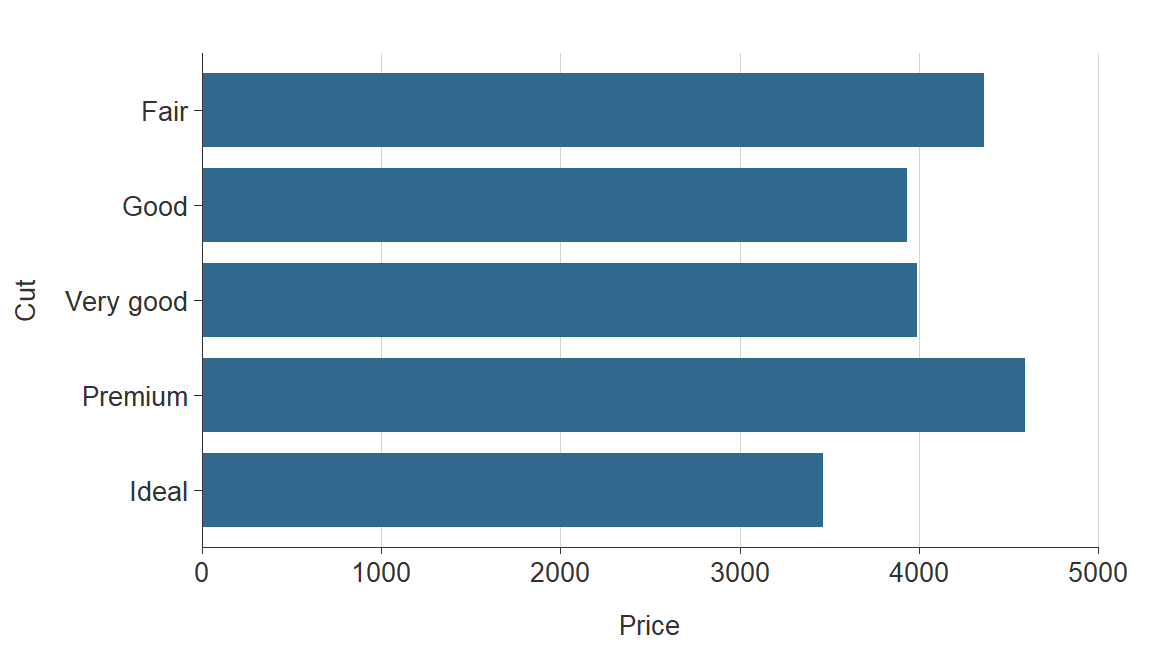
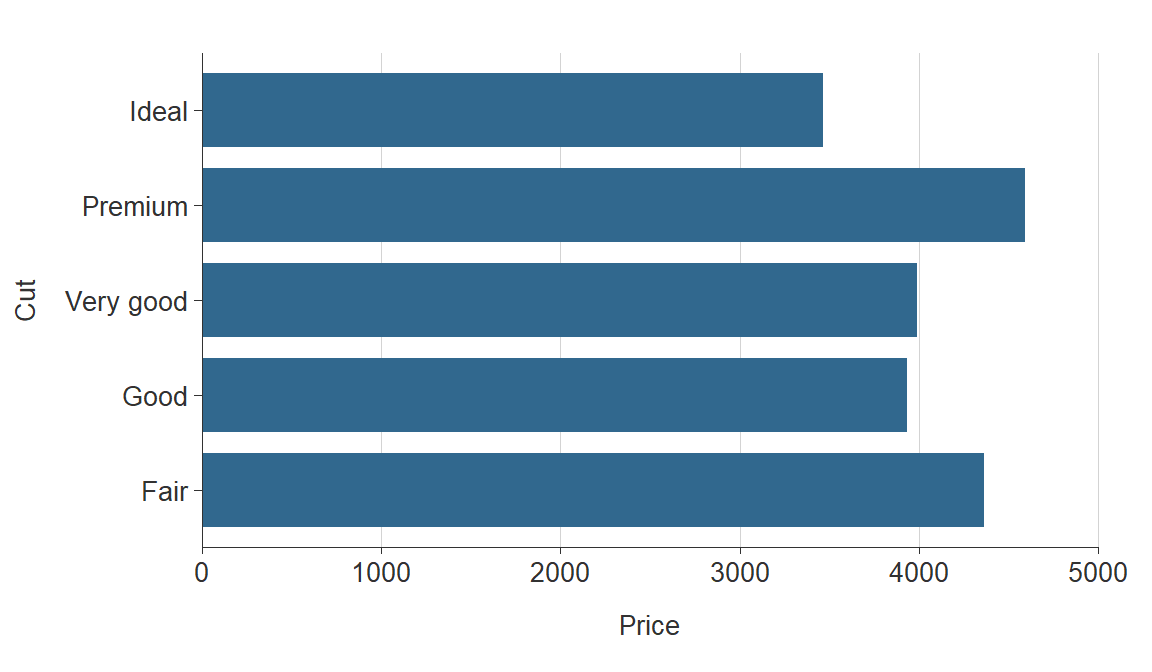
Update

diff --git a/content/post/2021-06-27-scales-with-simplevis/index.html b/content/post/2021-06-27-scales-with-simplevis/index.html
@@ -92,7 +92,7 @@ library(palmerpenguins)</code></pre>
 gg_hbar(plot_data, price, cut)</code></pre>
 <p><img src="{{< blogdown/postref >}}index_files/figure-html/unnamed-chunk-10-1.png" width="576" /></p>
 <p>If there is an inherent order to the character variable that you want it to plot in, then you should convert the variable to a factor, and give it the appropriate levels.</p>
-<pre class="r"><code>cut_levels &lt;-  c(&quot;Fair&quot;, &quot;Good&quot;, &quot;Very Good&quot;, &quot;Premium&quot;, &quot;Ideal&quot;)
+<pre class="r"><code>cut_levels &lt;-  c(&quot;Ideal&quot;, &quot;Premium&quot;, &quot;Very Good&quot;, &quot;Good&quot;, &quot;Fair&quot;)
 
 plot_data &lt;- ggplot2::diamonds %&gt;%
   mutate(cut = as.character(cut)) %&gt;%
